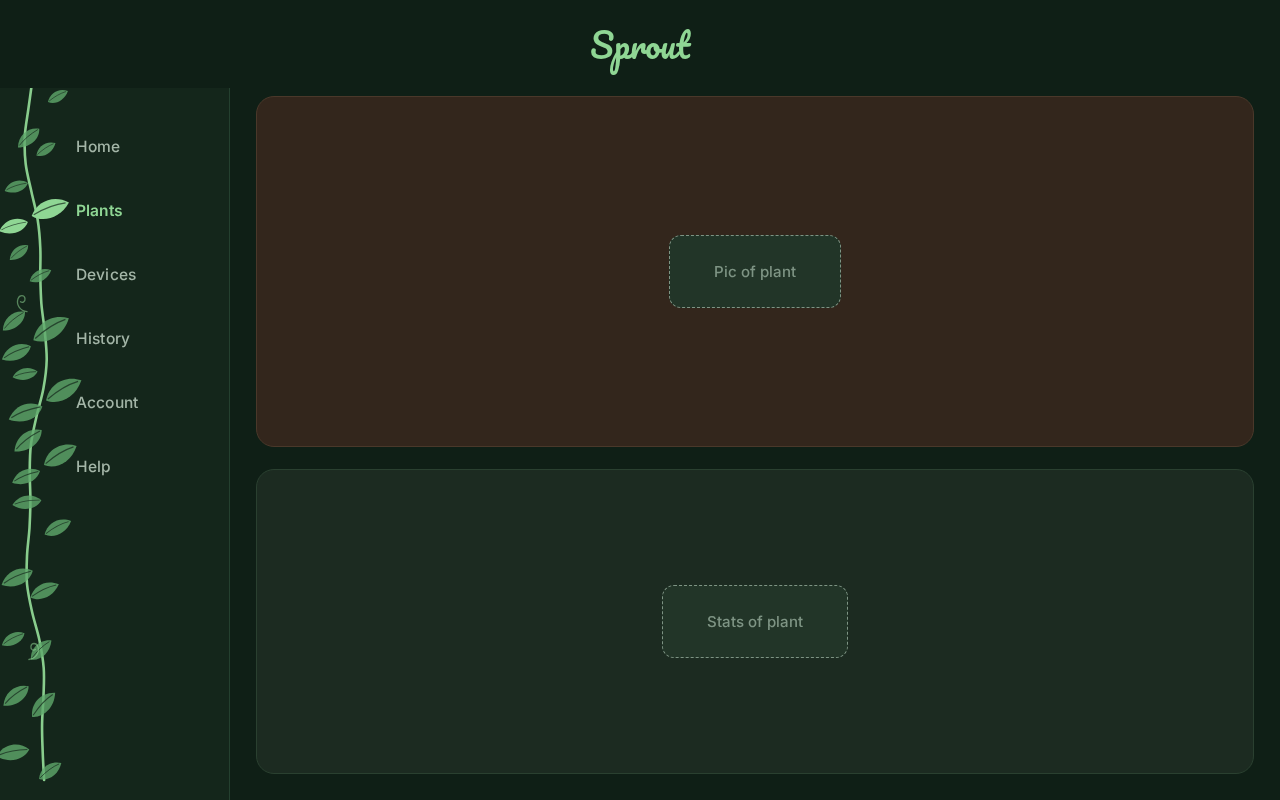
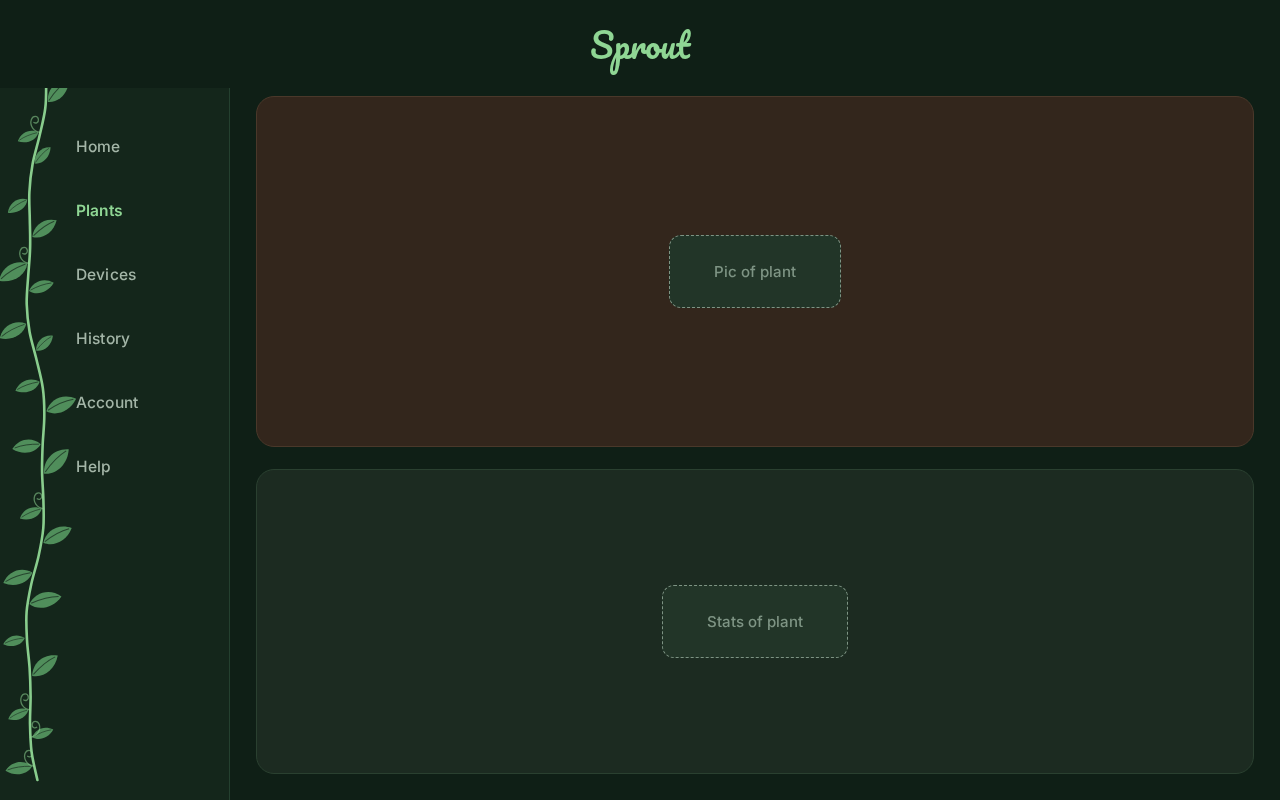
D4 fix: leaves attach to the vine stem

Changed region(s): [[0.0, 0.0938, 0.0625, 0.6875], [0.0, 0.6875, 0.0625, 0.9688]]

diff --git a/docs/design/plant-detail-dark.html b/docs/design/plant-detail-dark.html
@@ -49,7 +49,7 @@ header { height: 88px; display: grid; place-items: center; }
 <header><div class="logo">Sprout</div></header>
 <div class="frame">
   <aside class="sidebar">
-    <svg class="vine" width="110" height="712" viewBox="0 0 110 712" preserveAspectRatio="none"><path class="stem" d="M32.4,-8.0 C31.8,-3.3 29.8,10.7 28.5,20.0 C27.3,29.3 25.3,38.7 24.8,48.0 C24.4,57.3 24.6,66.7 25.7,76.0 C26.8,85.3 29.5,94.7 31.5,104.0 C33.5,113.3 36.3,122.7 37.7,132.0 C39.2,141.3 39.9,150.7 40.3,160.0 C40.8,169.3 40.1,178.7 40.3,188.0 C40.5,197.3 40.7,206.7 41.4,216.0 C42.2,225.3 43.9,234.7 44.8,244.0 C45.7,253.3 46.9,262.7 46.7,272.0 C46.5,281.3 45.2,290.7 43.5,300.0 C41.9,309.3 38.7,318.7 36.6,328.0 C34.5,337.3 32.2,346.7 31.0,356.0 C29.8,365.3 29.8,374.7 29.7,384.0 C29.6,393.3 30.5,402.7 30.4,412.0 C30.4,421.3 30.0,430.7 29.5,440.0 C28.9,449.3 27.4,458.7 27.0,468.0 C26.6,477.3 26.2,486.7 27.0,496.0 C27.9,505.3 30.0,514.7 32.1,524.0 C34.2,533.3 37.4,542.7 39.4,552.0 C41.3,561.3 43.0,570.7 43.7,580.0 C44.4,589.3 43.8,598.7 43.5,608.0 C43.2,617.3 42.2,626.7 42.1,636.0 C41.9,645.3 42.4,654.7 42.7,664.0 C43.0,673.3 43.9,687.3 44.1,692.0"/><g transform="translate(48.0 14.0) rotate(-25.63648383634581) scale(0.65,0.65)" class="leaf"><path class="blade" d="M0,0 C8,-11 24,-13 35,-2 C24,9 8,9 0,0 Z"/><path class="vein" d="M2,-0.5 C12,-3 23,-4 32,-2.5"/></g><g transform="translate(39.3 40.7) rotate(-44.57516497920457) scale(-0.81,0.81)" class="leaf"><path class="blade" d="M0,0 C8,-11 24,-13 35,-2 C24,9 8,9 0,0 Z"/><path class="vein" d="M2,-0.5 C12,-3 23,-4 32,-2.5"/></g><g transform="translate(36.4 67.5) rotate(-29.86827081258447) scale(0.65,0.65)" class="leaf"><path class="blade" d="M0,0 C8,-11 24,-13 35,-2 C24,9 8,9 0,0 Z"/><path class="vein" d="M2,-0.5 C12,-3 23,-4 32,-2.5"/></g><g transform="translate(27.9 95.0) rotate(-22.157537548587605) scale(-0.70,0.70)" class="leaf"><path class="blade" d="M0,0 C8,-11 24,-13 35,-2 C24,9 8,9 0,0 Z"/><path class="vein" d="M2,-0.5 C12,-3 23,-4 32,-2.5"/></g><g transform="translate(31.7 127.9) rotate(-16.52238767695576) scale(1.13,1.13)" class="leaf current"><path class="blade" d="M0,0 C8,-11 24,-13 35,-2 C24,9 8,9 0,0 Z"/><path class="vein" d="M2,-0.5 C12,-3 23,-4 32,-2.5"/></g><g transform="translate(27.9 133.9) rotate(-21.39675698283169) scale(-0.86,0.86)" class="leaf current"><path class="blade" d="M0,0 C8,-11 24,-13 35,-2 C24,9 8,9 0,0 Z"/><path class="vein" d="M2,-0.5 C12,-3 23,-4 32,-2.5"/></g><g transform="translate(28.2 157.4) rotate(-41.523894953022) scale(-0.67,0.67)" class="leaf"><path class="blade" d="M0,0 C8,-11 24,-13 35,-2 C24,9 8,9 0,0 Z"/><path class="vein" d="M2,-0.5 C12,-3 23,-4 32,-2.5"/></g><g transform="translate(29.7 193.2) rotate(-23.899193780826284) scale(0.69,0.69)" class="leaf"><path class="blade" d="M0,0 C8,-11 24,-13 35,-2 C24,9 8,9 0,0 Z"/><path class="vein" d="M2,-0.5 C12,-3 23,-4 32,-2.5"/></g><g transform="translate(25.0 223.7) rotate(-43.61401895101372) scale(-0.83,0.83)" class="leaf"><path class="blade" d="M0,0 C8,-11 24,-13 35,-2 C24,9 8,9 0,0 Z"/><path class="vein" d="M2,-0.5 C12,-3 23,-4 32,-2.5"/></g><path class="tendril" transform="translate(27.0 223.7) scale(-1,1)" d="M0,0 C7,-1 11,-7 9,-13 C7.5,-17 2.5,-17 2,-13 C1.6,-10 4.5,-8.5 6.5,-10"/><g transform="translate(33.4 252.2) rotate(-28.592969275273138) scale(1.19,1.19)" class="leaf"><path class="blade" d="M0,0 C8,-11 24,-13 35,-2 C24,9 8,9 0,0 Z"/><path class="vein" d="M2,-0.5 C12,-3 23,-4 32,-2.5"/></g><g transform="translate(30.9 258.2) rotate(-27.946515275816672) scale(-0.91,0.91)" class="leaf"><path class="blade" d="M0,0 C8,-11 24,-13 35,-2 C24,9 8,9 0,0 Z"/><path class="vein" d="M2,-0.5 C12,-3 23,-4 32,-2.5"/></g><g transform="translate(37.6 283.6) rotate(-15.813579702145336) scale(-0.73,0.73)" class="leaf"><path class="blade" d="M0,0 C8,-11 24,-13 35,-2 C24,9 8,9 0,0 Z"/><path class="vein" d="M2,-0.5 C12,-3 23,-4 32,-2.5"/></g><g transform="translate(46.1 312.5) rotate(-26.445676916148066) scale(1.16,1.16)" class="leaf"><path class="blade" d="M0,0 C8,-11 24,-13 35,-2 C24,9 8,9 0,0 Z"/><path class="vein" d="M2,-0.5 C12,-3 23,-4 32,-2.5"/></g><g transform="translate(42.4 318.5) rotate(-24.493313053458778) scale(-1.03,1.03)" class="leaf"><path class="blade" d="M0,0 C8,-11 24,-13 35,-2 C24,9 8,9 0,0 Z"/><path class="vein" d="M2,-0.5 C12,-3 23,-4 32,-2.5"/></g><g transform="translate(41.7 342.0) rotate(-41.51350042631144) scale(-0.99,0.99)" class="leaf"><path class="blade" d="M0,0 C8,-11 24,-13 35,-2 C24,9 8,9 0,0 Z"/><path class="vein" d="M2,-0.5 C12,-3 23,-4 32,-2.5"/></g><g transform="translate(44.0 377.1) rotate(-27.242811789532276) scale(1.08,1.08)" class="leaf"><path class="blade" d="M0,0 C8,-11 24,-13 35,-2 C24,9 8,9 0,0 Z"/><path class="vein" d="M2,-0.5 C12,-3 23,-4 32,-2.5"/></g><g transform="translate(40.0 383.1) rotate(-25.962819443174517) scale(-0.86,0.86)" class="leaf"><path class="blade" d="M0,0 C8,-11 24,-13 35,-2 C24,9 8,9 0,0 Z"/><path class="vein" d="M2,-0.5 C12,-3 23,-4 32,-2.5"/></g><g transform="translate(41.4 412.2) rotate(-12.731843150426243) scale(-0.84,0.84)" class="leaf"><path class="blade" d="M0,0 C8,-11 24,-13 35,-2 C24,9 8,9 0,0 Z"/><path class="vein" d="M2,-0.5 C12,-3 23,-4 32,-2.5"/></g><g transform="translate(44.6 446.6) rotate(-23.963982237265295) scale(0.85,0.85)" class="leaf"><path class="blade" d="M0,0 C8,-11 24,-13 35,-2 C24,9 8,9 0,0 Z"/><path class="vein" d="M2,-0.5 C12,-3 23,-4 32,-2.5"/></g><g transform="translate(32.8 482.7) rotate(-27.98426317805351) scale(-0.98,0.98)" class="leaf"><path class="blade" d="M0,0 C8,-11 24,-13 35,-2 C24,9 8,9 0,0 Z"/><path class="vein" d="M2,-0.5 C12,-3 23,-4 32,-2.5"/></g><g transform="translate(30.5 509.4) rotate(-21.409103527948588) scale(0.89,0.89)" class="leaf"><path class="blade" d="M0,0 C8,-11 24,-13 35,-2 C24,9 8,9 0,0 Z"/><path class="vein" d="M2,-0.5 C12,-3 23,-4 32,-2.5"/></g><g transform="translate(24.5 545.3) rotate(-31.33992518702499) scale(-0.73,0.73)" class="leaf"><path class="blade" d="M0,0 C8,-11 24,-13 35,-2 C24,9 8,9 0,0 Z"/><path class="vein" d="M2,-0.5 C12,-3 23,-4 32,-2.5"/></g><g transform="translate(30.9 571.5) rotate(-39.61416160155131) scale(0.80,0.80)" class="leaf"><path class="blade" d="M0,0 C8,-11 24,-13 35,-2 C24,9 8,9 0,0 Z"/><path class="vein" d="M2,-0.5 C12,-3 23,-4 32,-2.5"/></g><path class="tendril" transform="translate(28.9 571.5) scale(1,1)" d="M0,0 C7,-1 11,-7 9,-13 C7.5,-17 2.5,-17 2,-13 C1.6,-10 4.5,-8.5 6.5,-10"/><g transform="translate(28.6 598.2) rotate(-41.08507156329) scale(-0.91,0.91)" class="leaf"><path class="blade" d="M0,0 C8,-11 24,-13 35,-2 C24,9 8,9 0,0 Z"/><path class="vein" d="M2,-0.5 C12,-3 23,-4 32,-2.5"/></g><g transform="translate(32.1 628.9) rotate(-42.93791055439473) scale(0.95,0.95)" class="leaf"><path class="blade" d="M0,0 C8,-11 24,-13 35,-2 C24,9 8,9 0,0 Z"/><path class="vein" d="M2,-0.5 C12,-3 23,-4 32,-2.5"/></g><g transform="translate(29.3 661.5) rotate(-14.86736616224183) scale(-0.96,0.96)" class="leaf"><path class="blade" d="M0,0 C8,-11 24,-13 35,-2 C24,9 8,9 0,0 Z"/><path class="vein" d="M2,-0.5 C12,-3 23,-4 32,-2.5"/></g><g transform="translate(39.1 690.9) rotate(-32.36669571739826) scale(0.78,0.78)" class="leaf"><path class="blade" d="M0,0 C8,-11 24,-13 35,-2 C24,9 8,9 0,0 Z"/><path class="vein" d="M2,-0.5 C12,-3 23,-4 32,-2.5"/></g></svg>
+    <svg class="vine" width="110" height="712" viewBox="0 0 110 712" preserveAspectRatio="none"><path class="stem" d="M46.2,-8.0 C46.0,-3.3 46.5,10.7 45.3,20.0 C44.2,29.3 41.6,38.7 39.5,48.0 C37.4,57.3 34.3,66.7 32.6,76.0 C30.9,85.3 29.8,94.7 29.4,104.0 C28.9,113.3 29.7,122.7 29.8,132.0 C30.0,141.3 30.4,150.7 30.1,160.0 C29.9,169.3 28.8,178.7 28.2,188.0 C27.6,197.3 26.5,206.7 26.7,216.0 C27.0,225.3 28.0,234.7 29.6,244.0 C31.3,253.3 34.4,262.7 36.6,272.0 C38.8,281.3 41.5,290.7 42.8,300.0 C44.1,309.3 44.4,318.7 44.3,328.0 C44.3,337.3 43.1,346.7 42.7,356.0 C42.3,365.3 41.9,374.7 42.1,384.0 C42.2,393.3 43.2,402.7 43.4,412.0 C43.6,421.3 44.1,430.7 43.3,440.0 C42.5,449.3 40.6,458.7 38.6,468.0 C36.6,477.3 33.3,486.7 31.3,496.0 C29.3,505.3 27.3,514.7 26.6,524.0 C25.9,533.3 26.5,542.7 27.0,552.0 C27.5,561.3 29.0,570.7 29.6,580.0 C30.2,589.3 30.5,598.7 30.6,608.0 C30.7,617.3 29.8,626.7 30.0,636.0 C30.2,645.3 30.4,654.7 31.6,664.0 C32.8,673.3 36.4,687.3 37.4,692.0"/><g transform="translate(48.0 14.0) rotate(-43.247421106633375) scale(0.87,0.87)" class="leaf"><path class="blade" d="M0,0 C8,-11 24,-13 35,-2 C24,9 8,9 0,0 Z"/><path class="vein" d="M2,-0.5 C12,-3 23,-4 32,-2.5"/></g><g transform="translate(38.4 44.4) rotate(-26.71744213880203) scale(-0.64,0.64)" class="leaf"><path class="blade" d="M0,0 C8,-11 24,-13 35,-2 C24,9 8,9 0,0 Z"/><path class="vein" d="M2,-0.5 C12,-3 23,-4 32,-2.5"/></g><path class="tendril" transform="translate(40.4 44.4) scale(-1,1)" d="M0,0 C7,-1 11,-7 9,-13 C7.5,-17 2.5,-17 2,-13 C1.6,-10 4.5,-8.5 6.5,-10"/><g transform="translate(34.7 75.6) rotate(-42.55290549293313) scale(0.65,0.65)" class="leaf"><path class="blade" d="M0,0 C8,-11 24,-13 35,-2 C24,9 8,9 0,0 Z"/><path class="vein" d="M2,-0.5 C12,-3 23,-4 32,-2.5"/></g><g transform="translate(27.3 111.5) rotate(-37.51691934493345) scale(-0.67,0.67)" class="leaf"><path class="blade" d="M0,0 C8,-11 24,-13 35,-2 C24,9 8,9 0,0 Z"/><path class="vein" d="M2,-0.5 C12,-3 23,-4 32,-2.5"/></g><g transform="translate(32.3 148.9) rotate(-30.926141963270354) scale(0.84,0.84)" class="leaf"><path class="blade" d="M0,0 C8,-11 24,-13 35,-2 C24,9 8,9 0,0 Z"/><path class="vein" d="M2,-0.5 C12,-3 23,-4 32,-2.5"/></g><g transform="translate(27.3 175.4) rotate(-34.994847119396304) scale(-0.95,0.95)" class="leaf"><path class="blade" d="M0,0 C8,-11 24,-13 35,-2 C24,9 8,9 0,0 Z"/><path class="vein" d="M2,-0.5 C12,-3 23,-4 32,-2.5"/></g><path class="tendril" transform="translate(29.3 175.4) scale(-1,1)" d="M0,0 C7,-1 11,-7 9,-13 C7.5,-17 2.5,-17 2,-13 C1.6,-10 4.5,-8.5 6.5,-10"/><g transform="translate(29.1 202.9) rotate(-14.987198353438806) scale(0.74,0.74)" class="leaf"><path class="blade" d="M0,0 C8,-11 24,-13 35,-2 C24,9 8,9 0,0 Z"/><path class="vein" d="M2,-0.5 C12,-3 23,-4 32,-2.5"/></g><g transform="translate(26.2 235.8) rotate(-31.84889337642221) scale(-0.86,0.86)" class="leaf"><path class="blade" d="M0,0 C8,-11 24,-13 35,-2 C24,9 8,9 0,0 Z"/><path class="vein" d="M2,-0.5 C12,-3 23,-4 32,-2.5"/></g><g transform="translate(36.1 262.6) rotate(-38.17356891286559) scale(0.64,0.64)" class="leaf"><path class="blade" d="M0,0 C8,-11 24,-13 35,-2 C24,9 8,9 0,0 Z"/><path class="vein" d="M2,-0.5 C12,-3 23,-4 32,-2.5"/></g><g transform="translate(39.7 293.7) rotate(-23.748649186709727) scale(-0.74,0.74)" class="leaf"><path class="blade" d="M0,0 C8,-11 24,-13 35,-2 C24,9 8,9 0,0 Z"/><path class="vein" d="M2,-0.5 C12,-3 23,-4 32,-2.5"/></g><g transform="translate(46.4 323.3) rotate(-19.43821151827629) scale(0.92,0.92)" class="leaf"><path class="blade" d="M0,0 C8,-11 24,-13 35,-2 C24,9 8,9 0,0 Z"/><path class="vein" d="M2,-0.5 C12,-3 23,-4 32,-2.5"/></g><g transform="translate(40.7 356.2) rotate(-12.7447751682097) scale(-0.82,0.82)" class="leaf"><path class="blade" d="M0,0 C8,-11 24,-13 35,-2 C24,9 8,9 0,0 Z"/><path class="vein" d="M2,-0.5 C12,-3 23,-4 32,-2.5"/></g><g transform="translate(44.1 385.7) rotate(-41.51350042631144) scale(0.99,0.99)" class="leaf"><path class="blade" d="M0,0 C8,-11 24,-13 35,-2 C24,9 8,9 0,0 Z"/><path class="vein" d="M2,-0.5 C12,-3 23,-4 32,-2.5"/></g><g transform="translate(41.7 420.8) rotate(-27.419402181919388) scale(-0.68,0.68)" class="leaf"><path class="blade" d="M0,0 C8,-11 24,-13 35,-2 C24,9 8,9 0,0 Z"/><path class="vein" d="M2,-0.5 C12,-3 23,-4 32,-2.5"/></g><path class="tendril" transform="translate(43.7 420.8) scale(-1,1)" d="M0,0 C7,-1 11,-7 9,-13 C7.5,-17 2.5,-17 2,-13 C1.6,-10 4.5,-8.5 6.5,-10"/><g transform="translate(43.4 454.8) rotate(-24.22501426945941) scale(0.91,0.91)" class="leaf"><path class="blade" d="M0,0 C8,-11 24,-13 35,-2 C24,9 8,9 0,0 Z"/><path class="vein" d="M2,-0.5 C12,-3 23,-4 32,-2.5"/></g><g transform="translate(32.3 484.5) rotate(-23.4139446700093) scale(-0.88,0.88)" class="leaf"><path class="blade" d="M0,0 C8,-11 24,-13 35,-2 C24,9 8,9 0,0 Z"/><path class="vein" d="M2,-0.5 C12,-3 23,-4 32,-2.5"/></g><g transform="translate(29.4 516.0) rotate(-10.102118385898379) scale(0.94,0.94)" class="leaf"><path class="blade" d="M0,0 C8,-11 24,-13 35,-2 C24,9 8,9 0,0 Z"/><path class="vein" d="M2,-0.5 C12,-3 23,-4 32,-2.5"/></g><g transform="translate(24.8 550.0) rotate(-19.343303190431893) scale(-0.64,0.64)" class="leaf"><path class="blade" d="M0,0 C8,-11 24,-13 35,-2 C24,9 8,9 0,0 Z"/><path class="vein" d="M2,-0.5 C12,-3 23,-4 32,-2.5"/></g><g transform="translate(32.2 587.9) rotate(-35.18536978042233) scale(0.93,0.93)" class="leaf"><path class="blade" d="M0,0 C8,-11 24,-13 35,-2 C24,9 8,9 0,0 Z"/><path class="vein" d="M2,-0.5 C12,-3 23,-4 32,-2.5"/></g><g transform="translate(28.3 621.9) rotate(-28.455579120608895) scale(-0.63,0.63)" class="leaf"><path class="blade" d="M0,0 C8,-11 24,-13 35,-2 C24,9 8,9 0,0 Z"/><path class="vein" d="M2,-0.5 C12,-3 23,-4 32,-2.5"/></g><path class="tendril" transform="translate(30.3 621.9) scale(-1,1)" d="M0,0 C7,-1 11,-7 9,-13 C7.5,-17 2.5,-17 2,-13 C1.6,-10 4.5,-8.5 6.5,-10"/><g transform="translate(32.2 649.3) rotate(-16.80714643804421) scale(0.64,0.64)" class="leaf"><path class="blade" d="M0,0 C8,-11 24,-13 35,-2 C24,9 8,9 0,0 Z"/><path class="vein" d="M2,-0.5 C12,-3 23,-4 32,-2.5"/></g><path class="tendril" transform="translate(30.2 649.3) scale(1,1)" d="M0,0 C7,-1 11,-7 9,-13 C7.5,-17 2.5,-17 2,-13 C1.6,-10 4.5,-8.5 6.5,-10"/><g transform="translate(32.1 678.3) rotate(-12.885964983200623) scale(-0.77,0.77)" class="leaf"><path class="blade" d="M0,0 C8,-11 24,-13 35,-2 C24,9 8,9 0,0 Z"/><path class="vein" d="M2,-0.5 C12,-3 23,-4 32,-2.5"/></g><path class="tendril" transform="translate(34.1 678.3) scale(-1,1)" d="M0,0 C7,-1 11,-7 9,-13 C7.5,-17 2.5,-17 2,-13 C1.6,-10 4.5,-8.5 6.5,-10"/></svg>
     <nav class="menu">
       <a href="#">Home</a>
       <a href="#" class="current">Plants</a>

diff --git a/docs/design/plant-detail-light.html b/docs/design/plant-detail-light.html
@@ -49,7 +49,7 @@ header { height: 88px; display: grid; place-items: center; }
 <header><div class="logo">Sprout</div></header>
 <div class="frame">
   <aside class="sidebar">
-    <svg class="vine" width="110" height="712" viewBox="0 0 110 712" preserveAspectRatio="none"><path class="stem" d="M32.4,-8.0 C31.8,-3.3 29.8,10.7 28.5,20.0 C27.3,29.3 25.3,38.7 24.8,48.0 C24.4,57.3 24.6,66.7 25.7,76.0 C26.8,85.3 29.5,94.7 31.5,104.0 C33.5,113.3 36.3,122.7 37.7,132.0 C39.2,141.3 39.9,150.7 40.3,160.0 C40.8,169.3 40.1,178.7 40.3,188.0 C40.5,197.3 40.7,206.7 41.4,216.0 C42.2,225.3 43.9,234.7 44.8,244.0 C45.7,253.3 46.9,262.7 46.7,272.0 C46.5,281.3 45.2,290.7 43.5,300.0 C41.9,309.3 38.7,318.7 36.6,328.0 C34.5,337.3 32.2,346.7 31.0,356.0 C29.8,365.3 29.8,374.7 29.7,384.0 C29.6,393.3 30.5,402.7 30.4,412.0 C30.4,421.3 30.0,430.7 29.5,440.0 C28.9,449.3 27.4,458.7 27.0,468.0 C26.6,477.3 26.2,486.7 27.0,496.0 C27.9,505.3 30.0,514.7 32.1,524.0 C34.2,533.3 37.4,542.7 39.4,552.0 C41.3,561.3 43.0,570.7 43.7,580.0 C44.4,589.3 43.8,598.7 43.5,608.0 C43.2,617.3 42.2,626.7 42.1,636.0 C41.9,645.3 42.4,654.7 42.7,664.0 C43.0,673.3 43.9,687.3 44.1,692.0"/><g transform="translate(48.0 14.0) rotate(-25.63648383634581) scale(0.65,0.65)" class="leaf"><path class="blade" d="M0,0 C8,-11 24,-13 35,-2 C24,9 8,9 0,0 Z"/><path class="vein" d="M2,-0.5 C12,-3 23,-4 32,-2.5"/></g><g transform="translate(39.3 40.7) rotate(-44.57516497920457) scale(-0.81,0.81)" class="leaf"><path class="blade" d="M0,0 C8,-11 24,-13 35,-2 C24,9 8,9 0,0 Z"/><path class="vein" d="M2,-0.5 C12,-3 23,-4 32,-2.5"/></g><g transform="translate(36.4 67.5) rotate(-29.86827081258447) scale(0.65,0.65)" class="leaf"><path class="blade" d="M0,0 C8,-11 24,-13 35,-2 C24,9 8,9 0,0 Z"/><path class="vein" d="M2,-0.5 C12,-3 23,-4 32,-2.5"/></g><g transform="translate(27.9 95.0) rotate(-22.157537548587605) scale(-0.70,0.70)" class="leaf"><path class="blade" d="M0,0 C8,-11 24,-13 35,-2 C24,9 8,9 0,0 Z"/><path class="vein" d="M2,-0.5 C12,-3 23,-4 32,-2.5"/></g><g transform="translate(31.7 127.9) rotate(-16.52238767695576) scale(1.13,1.13)" class="leaf current"><path class="blade" d="M0,0 C8,-11 24,-13 35,-2 C24,9 8,9 0,0 Z"/><path class="vein" d="M2,-0.5 C12,-3 23,-4 32,-2.5"/></g><g transform="translate(27.9 133.9) rotate(-21.39675698283169) scale(-0.86,0.86)" class="leaf current"><path class="blade" d="M0,0 C8,-11 24,-13 35,-2 C24,9 8,9 0,0 Z"/><path class="vein" d="M2,-0.5 C12,-3 23,-4 32,-2.5"/></g><g transform="translate(28.2 157.4) rotate(-41.523894953022) scale(-0.67,0.67)" class="leaf"><path class="blade" d="M0,0 C8,-11 24,-13 35,-2 C24,9 8,9 0,0 Z"/><path class="vein" d="M2,-0.5 C12,-3 23,-4 32,-2.5"/></g><g transform="translate(29.7 193.2) rotate(-23.899193780826284) scale(0.69,0.69)" class="leaf"><path class="blade" d="M0,0 C8,-11 24,-13 35,-2 C24,9 8,9 0,0 Z"/><path class="vein" d="M2,-0.5 C12,-3 23,-4 32,-2.5"/></g><g transform="translate(25.0 223.7) rotate(-43.61401895101372) scale(-0.83,0.83)" class="leaf"><path class="blade" d="M0,0 C8,-11 24,-13 35,-2 C24,9 8,9 0,0 Z"/><path class="vein" d="M2,-0.5 C12,-3 23,-4 32,-2.5"/></g><path class="tendril" transform="translate(27.0 223.7) scale(-1,1)" d="M0,0 C7,-1 11,-7 9,-13 C7.5,-17 2.5,-17 2,-13 C1.6,-10 4.5,-8.5 6.5,-10"/><g transform="translate(33.4 252.2) rotate(-28.592969275273138) scale(1.19,1.19)" class="leaf"><path class="blade" d="M0,0 C8,-11 24,-13 35,-2 C24,9 8,9 0,0 Z"/><path class="vein" d="M2,-0.5 C12,-3 23,-4 32,-2.5"/></g><g transform="translate(30.9 258.2) rotate(-27.946515275816672) scale(-0.91,0.91)" class="leaf"><path class="blade" d="M0,0 C8,-11 24,-13 35,-2 C24,9 8,9 0,0 Z"/><path class="vein" d="M2,-0.5 C12,-3 23,-4 32,-2.5"/></g><g transform="translate(37.6 283.6) rotate(-15.813579702145336) scale(-0.73,0.73)" class="leaf"><path class="blade" d="M0,0 C8,-11 24,-13 35,-2 C24,9 8,9 0,0 Z"/><path class="vein" d="M2,-0.5 C12,-3 23,-4 32,-2.5"/></g><g transform="translate(46.1 312.5) rotate(-26.445676916148066) scale(1.16,1.16)" class="leaf"><path class="blade" d="M0,0 C8,-11 24,-13 35,-2 C24,9 8,9 0,0 Z"/><path class="vein" d="M2,-0.5 C12,-3 23,-4 32,-2.5"/></g><g transform="translate(42.4 318.5) rotate(-24.493313053458778) scale(-1.03,1.03)" class="leaf"><path class="blade" d="M0,0 C8,-11 24,-13 35,-2 C24,9 8,9 0,0 Z"/><path class="vein" d="M2,-0.5 C12,-3 23,-4 32,-2.5"/></g><g transform="translate(41.7 342.0) rotate(-41.51350042631144) scale(-0.99,0.99)" class="leaf"><path class="blade" d="M0,0 C8,-11 24,-13 35,-2 C24,9 8,9 0,0 Z"/><path class="vein" d="M2,-0.5 C12,-3 23,-4 32,-2.5"/></g><g transform="translate(44.0 377.1) rotate(-27.242811789532276) scale(1.08,1.08)" class="leaf"><path class="blade" d="M0,0 C8,-11 24,-13 35,-2 C24,9 8,9 0,0 Z"/><path class="vein" d="M2,-0.5 C12,-3 23,-4 32,-2.5"/></g><g transform="translate(40.0 383.1) rotate(-25.962819443174517) scale(-0.86,0.86)" class="leaf"><path class="blade" d="M0,0 C8,-11 24,-13 35,-2 C24,9 8,9 0,0 Z"/><path class="vein" d="M2,-0.5 C12,-3 23,-4 32,-2.5"/></g><g transform="translate(41.4 412.2) rotate(-12.731843150426243) scale(-0.84,0.84)" class="leaf"><path class="blade" d="M0,0 C8,-11 24,-13 35,-2 C24,9 8,9 0,0 Z"/><path class="vein" d="M2,-0.5 C12,-3 23,-4 32,-2.5"/></g><g transform="translate(44.6 446.6) rotate(-23.963982237265295) scale(0.85,0.85)" class="leaf"><path class="blade" d="M0,0 C8,-11 24,-13 35,-2 C24,9 8,9 0,0 Z"/><path class="vein" d="M2,-0.5 C12,-3 23,-4 32,-2.5"/></g><g transform="translate(32.8 482.7) rotate(-27.98426317805351) scale(-0.98,0.98)" class="leaf"><path class="blade" d="M0,0 C8,-11 24,-13 35,-2 C24,9 8,9 0,0 Z"/><path class="vein" d="M2,-0.5 C12,-3 23,-4 32,-2.5"/></g><g transform="translate(30.5 509.4) rotate(-21.409103527948588) scale(0.89,0.89)" class="leaf"><path class="blade" d="M0,0 C8,-11 24,-13 35,-2 C24,9 8,9 0,0 Z"/><path class="vein" d="M2,-0.5 C12,-3 23,-4 32,-2.5"/></g><g transform="translate(24.5 545.3) rotate(-31.33992518702499) scale(-0.73,0.73)" class="leaf"><path class="blade" d="M0,0 C8,-11 24,-13 35,-2 C24,9 8,9 0,0 Z"/><path class="vein" d="M2,-0.5 C12,-3 23,-4 32,-2.5"/></g><g transform="translate(30.9 571.5) rotate(-39.61416160155131) scale(0.80,0.80)" class="leaf"><path class="blade" d="M0,0 C8,-11 24,-13 35,-2 C24,9 8,9 0,0 Z"/><path class="vein" d="M2,-0.5 C12,-3 23,-4 32,-2.5"/></g><path class="tendril" transform="translate(28.9 571.5) scale(1,1)" d="M0,0 C7,-1 11,-7 9,-13 C7.5,-17 2.5,-17 2,-13 C1.6,-10 4.5,-8.5 6.5,-10"/><g transform="translate(28.6 598.2) rotate(-41.08507156329) scale(-0.91,0.91)" class="leaf"><path class="blade" d="M0,0 C8,-11 24,-13 35,-2 C24,9 8,9 0,0 Z"/><path class="vein" d="M2,-0.5 C12,-3 23,-4 32,-2.5"/></g><g transform="translate(32.1 628.9) rotate(-42.93791055439473) scale(0.95,0.95)" class="leaf"><path class="blade" d="M0,0 C8,-11 24,-13 35,-2 C24,9 8,9 0,0 Z"/><path class="vein" d="M2,-0.5 C12,-3 23,-4 32,-2.5"/></g><g transform="translate(29.3 661.5) rotate(-14.86736616224183) scale(-0.96,0.96)" class="leaf"><path class="blade" d="M0,0 C8,-11 24,-13 35,-2 C24,9 8,9 0,0 Z"/><path class="vein" d="M2,-0.5 C12,-3 23,-4 32,-2.5"/></g><g transform="translate(39.1 690.9) rotate(-32.36669571739826) scale(0.78,0.78)" class="leaf"><path class="blade" d="M0,0 C8,-11 24,-13 35,-2 C24,9 8,9 0,0 Z"/><path class="vein" d="M2,-0.5 C12,-3 23,-4 32,-2.5"/></g></svg>
+    <svg class="vine" width="110" height="712" viewBox="0 0 110 712" preserveAspectRatio="none"><path class="stem" d="M46.2,-8.0 C46.0,-3.3 46.5,10.7 45.3,20.0 C44.2,29.3 41.6,38.7 39.5,48.0 C37.4,57.3 34.3,66.7 32.6,76.0 C30.9,85.3 29.8,94.7 29.4,104.0 C28.9,113.3 29.7,122.7 29.8,132.0 C30.0,141.3 30.4,150.7 30.1,160.0 C29.9,169.3 28.8,178.7 28.2,188.0 C27.6,197.3 26.5,206.7 26.7,216.0 C27.0,225.3 28.0,234.7 29.6,244.0 C31.3,253.3 34.4,262.7 36.6,272.0 C38.8,281.3 41.5,290.7 42.8,300.0 C44.1,309.3 44.4,318.7 44.3,328.0 C44.3,337.3 43.1,346.7 42.7,356.0 C42.3,365.3 41.9,374.7 42.1,384.0 C42.2,393.3 43.2,402.7 43.4,412.0 C43.6,421.3 44.1,430.7 43.3,440.0 C42.5,449.3 40.6,458.7 38.6,468.0 C36.6,477.3 33.3,486.7 31.3,496.0 C29.3,505.3 27.3,514.7 26.6,524.0 C25.9,533.3 26.5,542.7 27.0,552.0 C27.5,561.3 29.0,570.7 29.6,580.0 C30.2,589.3 30.5,598.7 30.6,608.0 C30.7,617.3 29.8,626.7 30.0,636.0 C30.2,645.3 30.4,654.7 31.6,664.0 C32.8,673.3 36.4,687.3 37.4,692.0"/><g transform="translate(48.0 14.0) rotate(-43.247421106633375) scale(0.87,0.87)" class="leaf"><path class="blade" d="M0,0 C8,-11 24,-13 35,-2 C24,9 8,9 0,0 Z"/><path class="vein" d="M2,-0.5 C12,-3 23,-4 32,-2.5"/></g><g transform="translate(38.4 44.4) rotate(-26.71744213880203) scale(-0.64,0.64)" class="leaf"><path class="blade" d="M0,0 C8,-11 24,-13 35,-2 C24,9 8,9 0,0 Z"/><path class="vein" d="M2,-0.5 C12,-3 23,-4 32,-2.5"/></g><path class="tendril" transform="translate(40.4 44.4) scale(-1,1)" d="M0,0 C7,-1 11,-7 9,-13 C7.5,-17 2.5,-17 2,-13 C1.6,-10 4.5,-8.5 6.5,-10"/><g transform="translate(34.7 75.6) rotate(-42.55290549293313) scale(0.65,0.65)" class="leaf"><path class="blade" d="M0,0 C8,-11 24,-13 35,-2 C24,9 8,9 0,0 Z"/><path class="vein" d="M2,-0.5 C12,-3 23,-4 32,-2.5"/></g><g transform="translate(27.3 111.5) rotate(-37.51691934493345) scale(-0.67,0.67)" class="leaf"><path class="blade" d="M0,0 C8,-11 24,-13 35,-2 C24,9 8,9 0,0 Z"/><path class="vein" d="M2,-0.5 C12,-3 23,-4 32,-2.5"/></g><g transform="translate(32.3 148.9) rotate(-30.926141963270354) scale(0.84,0.84)" class="leaf"><path class="blade" d="M0,0 C8,-11 24,-13 35,-2 C24,9 8,9 0,0 Z"/><path class="vein" d="M2,-0.5 C12,-3 23,-4 32,-2.5"/></g><g transform="translate(27.3 175.4) rotate(-34.994847119396304) scale(-0.95,0.95)" class="leaf"><path class="blade" d="M0,0 C8,-11 24,-13 35,-2 C24,9 8,9 0,0 Z"/><path class="vein" d="M2,-0.5 C12,-3 23,-4 32,-2.5"/></g><path class="tendril" transform="translate(29.3 175.4) scale(-1,1)" d="M0,0 C7,-1 11,-7 9,-13 C7.5,-17 2.5,-17 2,-13 C1.6,-10 4.5,-8.5 6.5,-10"/><g transform="translate(29.1 202.9) rotate(-14.987198353438806) scale(0.74,0.74)" class="leaf"><path class="blade" d="M0,0 C8,-11 24,-13 35,-2 C24,9 8,9 0,0 Z"/><path class="vein" d="M2,-0.5 C12,-3 23,-4 32,-2.5"/></g><g transform="translate(26.2 235.8) rotate(-31.84889337642221) scale(-0.86,0.86)" class="leaf"><path class="blade" d="M0,0 C8,-11 24,-13 35,-2 C24,9 8,9 0,0 Z"/><path class="vein" d="M2,-0.5 C12,-3 23,-4 32,-2.5"/></g><g transform="translate(36.1 262.6) rotate(-38.17356891286559) scale(0.64,0.64)" class="leaf"><path class="blade" d="M0,0 C8,-11 24,-13 35,-2 C24,9 8,9 0,0 Z"/><path class="vein" d="M2,-0.5 C12,-3 23,-4 32,-2.5"/></g><g transform="translate(39.7 293.7) rotate(-23.748649186709727) scale(-0.74,0.74)" class="leaf"><path class="blade" d="M0,0 C8,-11 24,-13 35,-2 C24,9 8,9 0,0 Z"/><path class="vein" d="M2,-0.5 C12,-3 23,-4 32,-2.5"/></g><g transform="translate(46.4 323.3) rotate(-19.43821151827629) scale(0.92,0.92)" class="leaf"><path class="blade" d="M0,0 C8,-11 24,-13 35,-2 C24,9 8,9 0,0 Z"/><path class="vein" d="M2,-0.5 C12,-3 23,-4 32,-2.5"/></g><g transform="translate(40.7 356.2) rotate(-12.7447751682097) scale(-0.82,0.82)" class="leaf"><path class="blade" d="M0,0 C8,-11 24,-13 35,-2 C24,9 8,9 0,0 Z"/><path class="vein" d="M2,-0.5 C12,-3 23,-4 32,-2.5"/></g><g transform="translate(44.1 385.7) rotate(-41.51350042631144) scale(0.99,0.99)" class="leaf"><path class="blade" d="M0,0 C8,-11 24,-13 35,-2 C24,9 8,9 0,0 Z"/><path class="vein" d="M2,-0.5 C12,-3 23,-4 32,-2.5"/></g><g transform="translate(41.7 420.8) rotate(-27.419402181919388) scale(-0.68,0.68)" class="leaf"><path class="blade" d="M0,0 C8,-11 24,-13 35,-2 C24,9 8,9 0,0 Z"/><path class="vein" d="M2,-0.5 C12,-3 23,-4 32,-2.5"/></g><path class="tendril" transform="translate(43.7 420.8) scale(-1,1)" d="M0,0 C7,-1 11,-7 9,-13 C7.5,-17 2.5,-17 2,-13 C1.6,-10 4.5,-8.5 6.5,-10"/><g transform="translate(43.4 454.8) rotate(-24.22501426945941) scale(0.91,0.91)" class="leaf"><path class="blade" d="M0,0 C8,-11 24,-13 35,-2 C24,9 8,9 0,0 Z"/><path class="vein" d="M2,-0.5 C12,-3 23,-4 32,-2.5"/></g><g transform="translate(32.3 484.5) rotate(-23.4139446700093) scale(-0.88,0.88)" class="leaf"><path class="blade" d="M0,0 C8,-11 24,-13 35,-2 C24,9 8,9 0,0 Z"/><path class="vein" d="M2,-0.5 C12,-3 23,-4 32,-2.5"/></g><g transform="translate(29.4 516.0) rotate(-10.102118385898379) scale(0.94,0.94)" class="leaf"><path class="blade" d="M0,0 C8,-11 24,-13 35,-2 C24,9 8,9 0,0 Z"/><path class="vein" d="M2,-0.5 C12,-3 23,-4 32,-2.5"/></g><g transform="translate(24.8 550.0) rotate(-19.343303190431893) scale(-0.64,0.64)" class="leaf"><path class="blade" d="M0,0 C8,-11 24,-13 35,-2 C24,9 8,9 0,0 Z"/><path class="vein" d="M2,-0.5 C12,-3 23,-4 32,-2.5"/></g><g transform="translate(32.2 587.9) rotate(-35.18536978042233) scale(0.93,0.93)" class="leaf"><path class="blade" d="M0,0 C8,-11 24,-13 35,-2 C24,9 8,9 0,0 Z"/><path class="vein" d="M2,-0.5 C12,-3 23,-4 32,-2.5"/></g><g transform="translate(28.3 621.9) rotate(-28.455579120608895) scale(-0.63,0.63)" class="leaf"><path class="blade" d="M0,0 C8,-11 24,-13 35,-2 C24,9 8,9 0,0 Z"/><path class="vein" d="M2,-0.5 C12,-3 23,-4 32,-2.5"/></g><path class="tendril" transform="translate(30.3 621.9) scale(-1,1)" d="M0,0 C7,-1 11,-7 9,-13 C7.5,-17 2.5,-17 2,-13 C1.6,-10 4.5,-8.5 6.5,-10"/><g transform="translate(32.2 649.3) rotate(-16.80714643804421) scale(0.64,0.64)" class="leaf"><path class="blade" d="M0,0 C8,-11 24,-13 35,-2 C24,9 8,9 0,0 Z"/><path class="vein" d="M2,-0.5 C12,-3 23,-4 32,-2.5"/></g><path class="tendril" transform="translate(30.2 649.3) scale(1,1)" d="M0,0 C7,-1 11,-7 9,-13 C7.5,-17 2.5,-17 2,-13 C1.6,-10 4.5,-8.5 6.5,-10"/><g transform="translate(32.1 678.3) rotate(-12.885964983200623) scale(-0.77,0.77)" class="leaf"><path class="blade" d="M0,0 C8,-11 24,-13 35,-2 C24,9 8,9 0,0 Z"/><path class="vein" d="M2,-0.5 C12,-3 23,-4 32,-2.5"/></g><path class="tendril" transform="translate(34.1 678.3) scale(-1,1)" d="M0,0 C7,-1 11,-7 9,-13 C7.5,-17 2.5,-17 2,-13 C1.6,-10 4.5,-8.5 6.5,-10"/></svg>
     <nav class="menu">
       <a href="#">Home</a>
       <a href="#" class="current">Plants</a>
